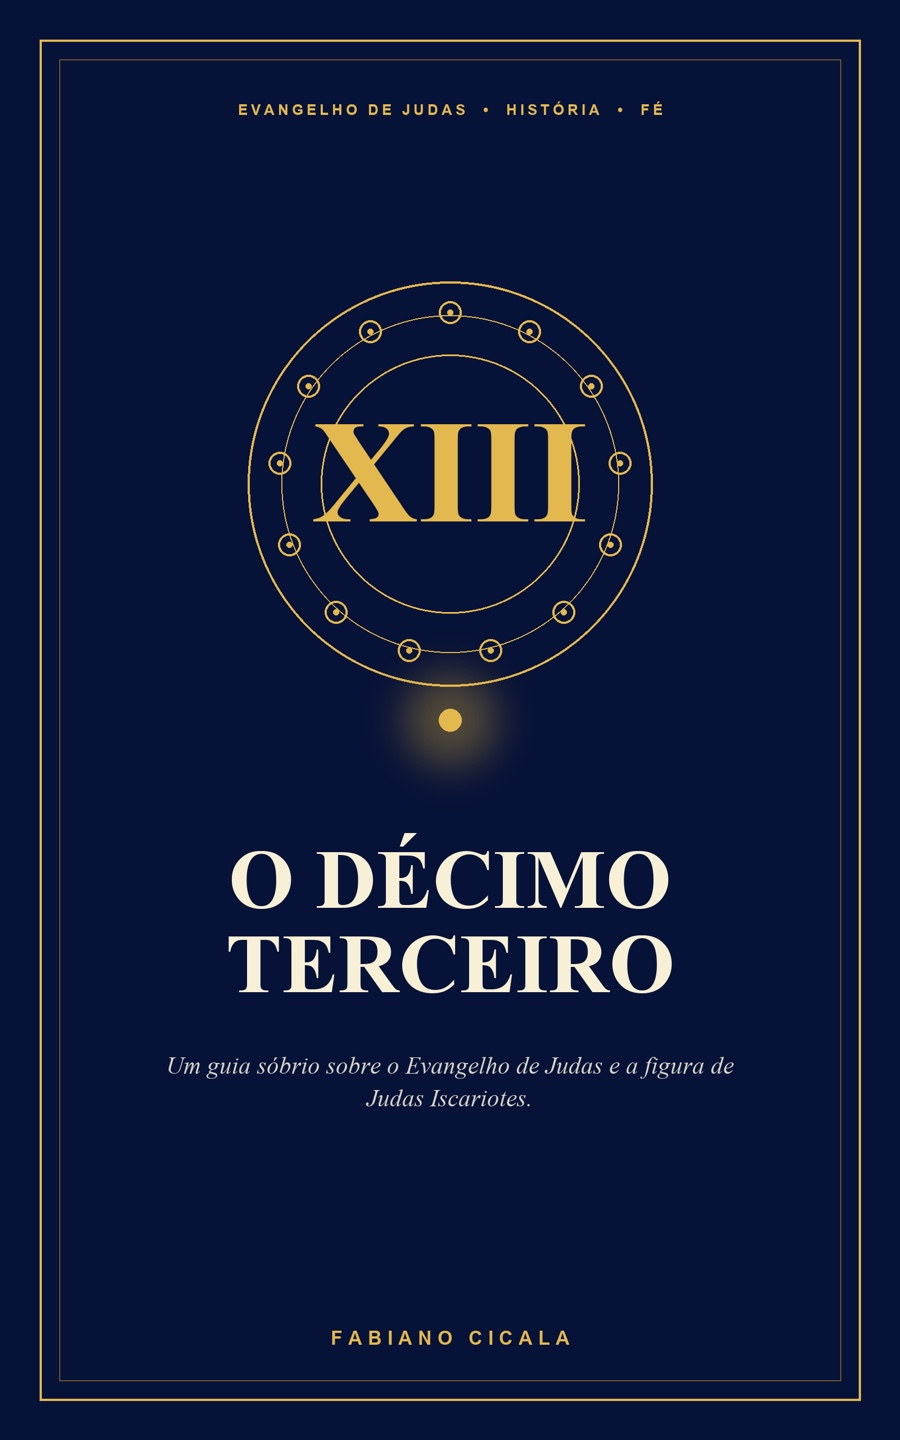
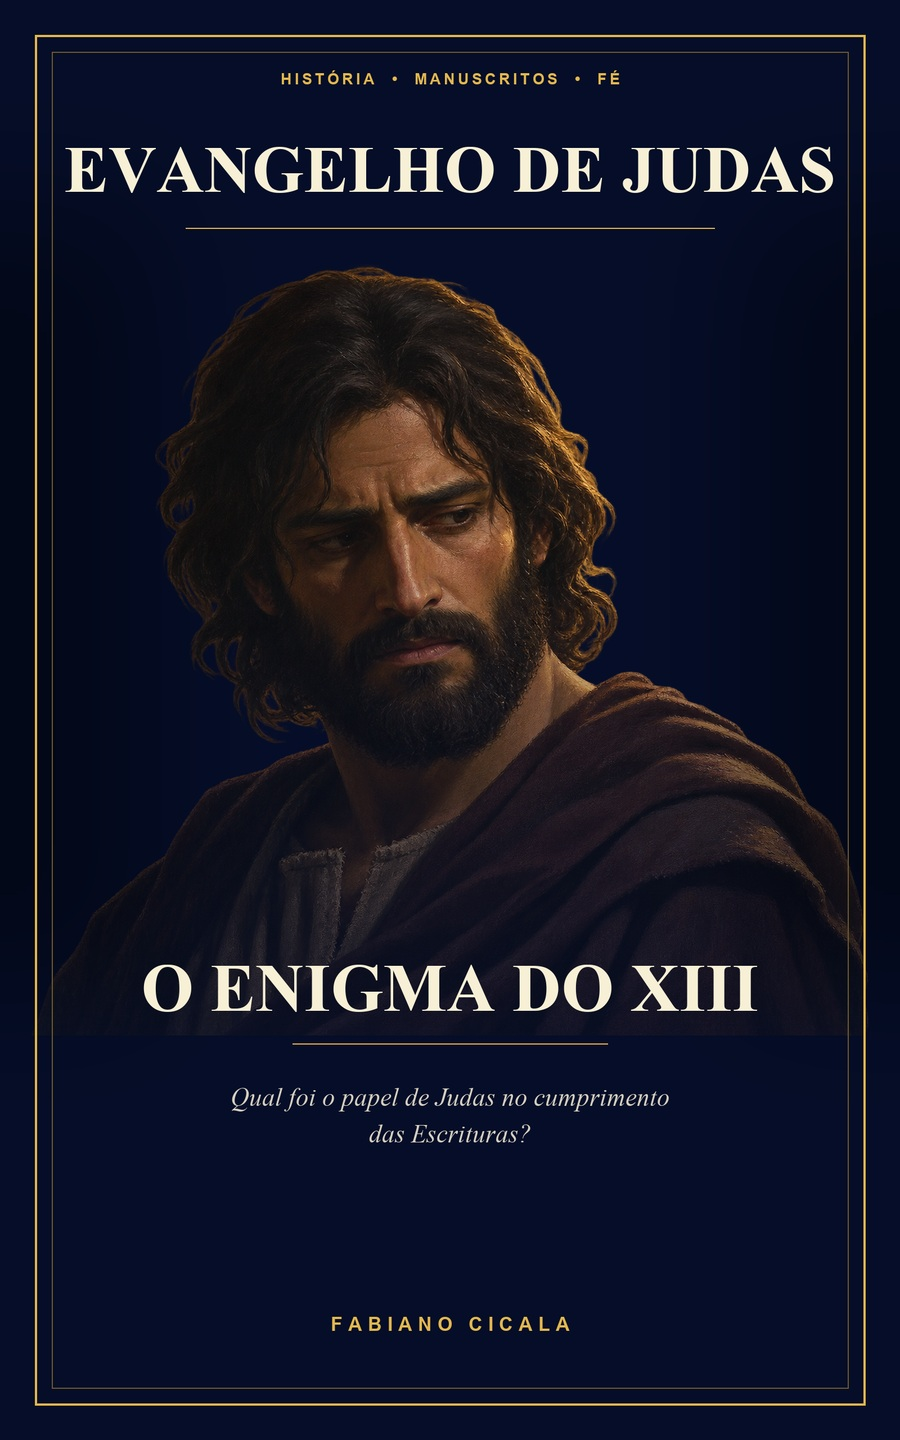
Atualiza Evangelho de Judas — O Enigma do XIII

diff --git a/livros/index.html b/livros/index.html
@@ -18,7 +18,7 @@
   <link rel="stylesheet" href="/catalog.css?v=20261016compact2">
   <link rel="stylesheet" href="/mobile.css?v=20261016layout2">
   <link rel="stylesheet" href="/career.css?v=20261027">
-  <link rel="stylesheet" href="/livros/livros.css?v=20261106upcomingcovers">
+  <link rel="stylesheet" href="/livros/livros.css?v=20261030physicalbooks">
 <link rel="stylesheet" href="/typography.css?v=20261029unified"><style id="books-reflection-style">
 .books-only .books-reflection{padding:clamp(30px,4.5vw,58px) clamp(22px,4.5vw,58px);background:#f6f3ed;border-top:1px solid #dfcfac;color:#172f43}
 .books-only .books-reflection-intro{margin:0 0 24px;font-size:1rem!important;line-height:1.5;font-weight:500;color:#755a2b}
@@ -121,17 +121,14 @@
         <p class="book-price" title="Preço de compra do eBook Kindle conferido na Amazon Brasil em 29/10/2026">R$ 9,90</p><div class="book-actions"><a class="book-preview-button" href="https://www.amazon.com.br/dp/B0HMP81PJB" target="_blank" rel="noopener noreferrer">Comprar na Amazon ↗</a></div>
       </div>
     </article>
-<article id="livro-dos-5-aos-5-milhoes" class="book-card book-card--enhanced book-card--upcoming" aria-labelledby="dos-5-aos-5-milhoes-title">
+<article id="livro-vencendo-na-pratica" class="book-card book-card--enhanced book-card--upcoming" aria-labelledby="vencendo-na-pratica-title">
       <span class="book-soon">Em breve</span>
-      <a class="book-cover book-preview-cover" href="/livros/dos-5-aos-5-milhoes/" aria-label="Conhecer Dos R$ 5 aos R$ 5 milhões e ler uma prévia">
-        <span class="book-3d"><span class="book-spine" aria-hidden="true"></span><img class="book-front" src="/img/optimized/capa-dos-5-aos-5-milhoes.webp" alt="Capa de Dos R$ 5 aos R$ 5 milhões, de Fabiano Cicala" loading="lazy" width="1200" height="1800"></span>
-      </a>
+      <div class="book-cover book-preview-cover">
+        <span class="book-3d"><span class="book-spine" aria-hidden="true"></span><img class="book-front" src="/img/optimized/capa-vencendo-na-pratica.webp" alt="Capa de Vencendo na Prática, de Fabiano Cicala" loading="lazy" width="900" height="1350"></span>
+      </div>
       <div class="book-info">
-        <span class="book-status">Nova obra em preparação</span>
-        <h3 id="dos-5-aos-5-milhoes-title">Dos R$ 5 aos R$ 5 milhões</h3>
-        <p class="book-subtitle">Como fiz R$ 5 milhões a partir de R$ 5,00</p>
-        <p class="book-summary">Um minhocário, uma primeira venda pela internet e a história real de um recomeço construído com fé, trabalho e ação.</p>
-        <div class="book-actions"><a class="book-preview-button" href="/livros/dos-5-aos-5-milhoes/">Ler a prévia →</a></div>
+        <h3 id="vencendo-na-pratica-title">Vencendo na Prática</h3>
+        <p class="book-summary">Do minhocário de cinco reais às vendas online: experiências reais de recomeço, trabalho e empreendedorismo.</p>
       </div>
     </article>
 <article id="livro-eu-existo" class="book-card book-card--enhanced">
@@ -175,12 +172,12 @@
         
       </div>
     </article></div></div><div class="book-group" id="proximos-lancamentos"><h3 class="book-collection-title">Próximos lançamentos</h3><div class="book-row">
-<article id="livro-receita-da-prosperidade" class="book-card book-card--enhanced book-card--upcoming" aria-label="Receita da Prosperidade — Em breve"><span class="book-soon">Em breve</span><div class="book-cover book-preview-cover"><span class="book-3d"><span class="book-spine" aria-hidden="true"></span><img class="book-front" src="/img/optimized/capa-receita-da-prosperidade.jpg?v=20261106" alt="Capa de Receita da Prosperidade, de Fabiano Cicala" loading="lazy" width="900" height="1440"></span></div></article>
-<article id="livro-mais-forte-do-que-parece" class="book-card book-card--enhanced book-card--upcoming" aria-label="Mais Forte do que Parece — Em breve"><span class="book-soon">Em breve</span><div class="book-cover book-preview-cover"><span class="book-3d"><span class="book-spine" aria-hidden="true"></span><img class="book-front" src="/img/optimized/capa-mais-forte-do-que-parece.jpg?v=20261106" alt="Capa de Mais Forte do que Parece, de Fabiano Cicala" loading="lazy" width="900" height="1440"></span></div></article>
-<article id="livro-orquestra-desafinada" class="book-card book-card--enhanced book-card--upcoming" aria-label="Orquestra Desafinada — Em breve"><span class="book-soon">Em breve</span><div class="book-cover book-preview-cover"><span class="book-3d"><span class="book-spine" aria-hidden="true"></span><img class="book-front" src="/img/optimized/capa-orquestra-desafinada.jpg?v=20261106" alt="Capa de Orquestra Desafinada, de Fabiano Cicala" loading="lazy" width="900" height="1440"></span></div></article>
-<article id="livro-daqui-a-30-anos" class="book-card book-card--enhanced book-card--upcoming" aria-label="Daqui a 30 Anos — Em breve"><span class="book-soon">Em breve</span><div class="book-cover book-preview-cover"><span class="book-3d"><span class="book-spine" aria-hidden="true"></span><img class="book-front" src="/img/optimized/capa-daqui-a-30-anos.jpg?v=20261106" alt="Capa de Daqui a 30 Anos, de Fabiano Cicala" loading="lazy" width="900" height="1440"></span></div></article>
-<article id="livro-liderar-com-amor" class="book-card book-card--enhanced book-card--upcoming" aria-label="Liderar com Amor — Em breve"><span class="book-soon">Em breve</span><div class="book-cover book-preview-cover"><span class="book-3d"><span class="book-spine" aria-hidden="true"></span><img class="book-front" src="/img/optimized/capa-liderar-com-amor.jpg?v=20261106" alt="Capa de Liderar com Amor, de Fabiano Cicala" loading="lazy" width="900" height="1440"></span></div></article>
-<article id="livro-o-decimo-terceiro" class="book-card book-card--enhanced book-card--upcoming" aria-label="O Décimo Terceiro — Em breve"><span class="book-soon">Em breve</span><div class="book-cover book-preview-cover"><span class="book-3d"><span class="book-spine" aria-hidden="true"></span><img class="book-front" src="/img/optimized/capa-o-decimo-terceiro.jpg?v=20261106" alt="Capa de O Décimo Terceiro, de Fabiano Cicala" loading="lazy" width="900" height="1440"></span></div></article>
+<article id="livro-receita-da-prosperidade" class="book-card book-card--enhanced book-card--upcoming" aria-label="Receita da Prosperidade — Em breve"><span class="book-soon">Em breve</span><div class="book-cover book-preview-cover"><span class="book-3d"><span class="book-spine" aria-hidden="true"></span><img class="book-front" src="/img/optimized/capa-receita-da-prosperidade.jpg" alt="Capa de Receita da Prosperidade, de Fabiano Cicala" loading="lazy" width="900" height="1440"></span></div></article>
+<article id="livro-mais-forte-do-que-parece" class="book-card book-card--enhanced book-card--upcoming" aria-label="Mais Forte do que Parece — Em breve"><span class="book-soon">Em breve</span><div class="book-cover book-preview-cover"><span class="book-3d"><span class="book-spine" aria-hidden="true"></span><img class="book-front" src="/img/optimized/capa-mais-forte-do-que-parece.jpg" alt="Capa de Mais Forte do que Parece, de Fabiano Cicala" loading="lazy" width="900" height="1440"></span></div></article>
+<article id="livro-orquestra-desafinada" class="book-card book-card--enhanced book-card--upcoming" aria-label="Orquestra Desafinada — Em breve"><span class="book-soon">Em breve</span><div class="book-cover book-preview-cover"><span class="book-3d"><span class="book-spine" aria-hidden="true"></span><img class="book-front" src="/img/optimized/capa-orquestra-desafinada.jpg" alt="Capa de Orquestra Desafinada, de Fabiano Cicala" loading="lazy" width="900" height="1440"></span></div></article>
+<article id="livro-daqui-a-30-anos" class="book-card book-card--enhanced book-card--upcoming" aria-label="Daqui a 30 Anos — Em breve"><span class="book-soon">Em breve</span><div class="book-cover book-preview-cover"><span class="book-3d"><span class="book-spine" aria-hidden="true"></span><img class="book-front" src="/img/optimized/capa-daqui-a-30-anos.jpg" alt="Capa de Daqui a 30 Anos, de Fabiano Cicala" loading="lazy" width="900" height="1440"></span></div></article>
+<article id="livro-liderar-com-amor" class="book-card book-card--enhanced book-card--upcoming" aria-label="Liderar com Amor — Em breve"><span class="book-soon">Em breve</span><div class="book-cover book-preview-cover"><span class="book-3d"><span class="book-spine" aria-hidden="true"></span><img class="book-front" src="/img/optimized/capa-liderar-com-amor.jpg" alt="Capa de Liderar com Amor, de Fabiano Cicala" loading="lazy" width="900" height="1440"></span></div></article>
+<article id="livro-o-decimo-terceiro" class="book-card book-card--enhanced book-card--upcoming" aria-label="Evangelho de Judas — O Enigma do XIII — Em breve"><span class="book-soon">Em breve</span><div class="book-cover book-preview-cover"><span class="book-3d"><span class="book-spine" aria-hidden="true"></span><img class="book-front" src="/img/optimized/capa-o-decimo-terceiro.jpg?v=20261106d" alt="Capa de Evangelho de Judas — O Enigma do XIII, de Fabiano Cicala" loading="lazy" width="900" height="1440"></span></div></article>
 </div></div><div class="book-group"><h3 class="book-collection-title">Coleção Aprenda IA</h3><p class="collection-description">Os livros são pagos. Os cursos e certificados mencionados seguem as condições dos respectivos provedores, que podem alterar suas condições inclusive sem aviso prévio. Confira os requisitos e a emissão de certificados nos links oficiais.</p><div class="book-row book-row--collection"><article id="livro-me-detona-ia" class="book-card book-card--enhanced book-card--featured">
 
 <a class="book-cover book-preview-cover" href="/livros/me-detona-ia/" aria-label="Conhecer Me Detona, IA! e testar o Prompt Zero">
